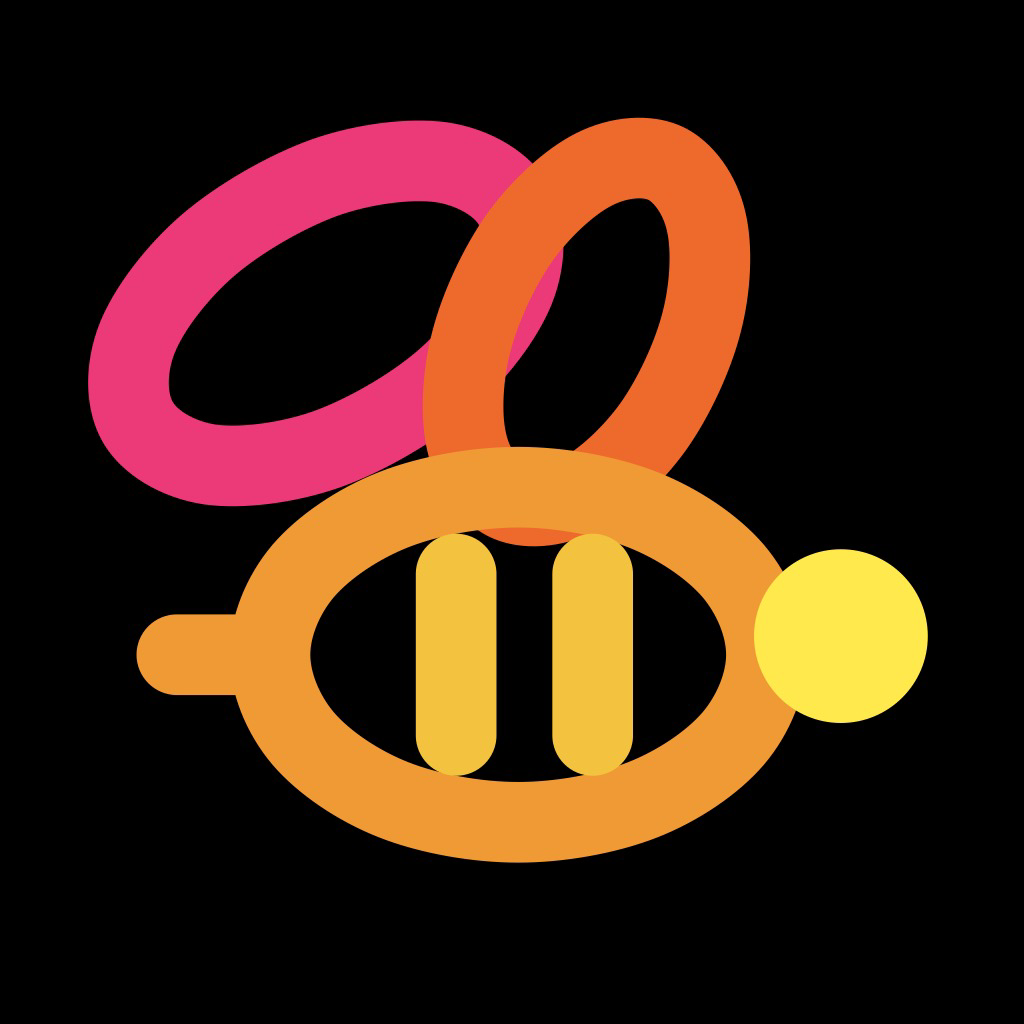
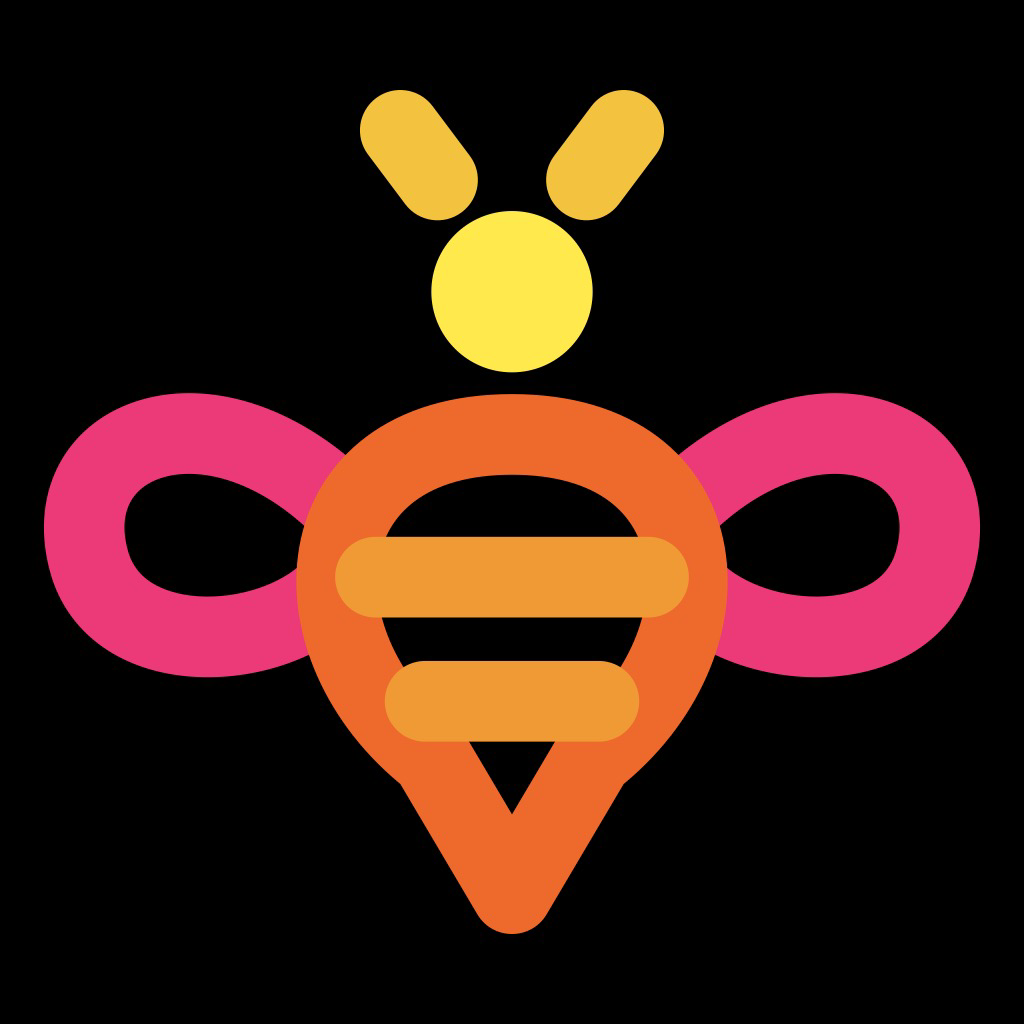
Redraw bee signet as frontal, symmetric bee after reference
Wings, abdomen with sting, two stripes and antennae as the four strokes,
head as the dot; antennae separated from the head, small gap between
head and body.

diff --git a/tools/signet.py b/tools/signet.py
@@ -33,17 +33,18 @@ def ellipse(cx, cy, rx, ry, rot_deg, n=10):
 
 
 def bee():
-    # Biene im Profil, Blick nach rechts:
-    # 1 Pink   – hinterer, großer Flügel (nach hinten oben geneigt)
-    # 2 Orange – vorderer, kleinerer Flügel (steiler)
-    # 3 Bernstein – Körper (liegende Ellipse) mit Stachel als Teilstrich
-    # 4 Gold   – zwei Streifen auf dem Körper (ein Pfad, zwei Teilstriche)
-    # Punkt    – Kopf vorne rechts: Fokus des Signets
-    back_wing = ellipse(200, 116, 70, 40, 30)
-    front_wing = ellipse(284, 122, 60, 34, 65)
-    body = ellipse(262, 226, 80, 54, 0, n=12) + 'M176 226L152 226'   # body + sting (same stroke)
-    stripes = 'M242 200L242 252M286 200L286 252'
-    return [back_wing, front_wing, body, stripes], (366, 220, 28)   # head sits on the body's front
+    # Biene frontal und symmetrisch (Achse x = 270, rechts der Mitte nach ODSV-Regel):
+    # 1 Pink      – beide Flügel (hinten, groß): Schlaufen seitlich am Körper, ohne Kreuzung
+    # 2 Orange    – Hinterleib: rund oben, läuft unten in eine Spitze (Stachel) aus
+    # 3 Bernstein – zwei Streifen quer über den Hinterleib
+    # 4 Gold      – zwei Fühler (vorne, klein)
+    # Punkt       – Kopf: Fokus des Signets
+    wings = ('M212 184C170 146 122 166 134 206C144 238 196 234 214 212'
+             'M328 184C370 146 418 166 406 206C396 238 344 234 326 212')
+    body = 'M270 164C338 164 342 232 296 268L270 312L244 268C198 232 202 164 270 164Z'
+    stripes = 'M226 210L314 210M242 250L298 250'
+    antennae = 'M246 82L234 66M294 82L306 66'
+    return [wings, body, stripes, antennae], (270, 118, 26)
 
 
 def svg(paths, dot, background=None, view='0 0 400 400', size=400):
@@ -99,5 +100,5 @@ if __name__ == '__main__':
     out.mkdir(parents=True, exist_ok=True)
     (out / 'the-swarm-signet.svg').write_text(svg(paths, dot))
     # Square icon: motif centred (view shifted right), black ground.
-    (out / 'the-swarm-signet-dark.svg').write_text(svg(paths, dot, background='#000000', view='95 15 330 330', size=1024))
+    (out / 'the-swarm-signet-dark.svg').write_text(svg(paths, dot, background='#000000', view='105 24 330 330', size=1024))
     sys.exit(1 if errs else 0)

diff --git a/README.md b/README.md
@@ -1,6 +1,6 @@
 # The Swarm
 
-<p align="center"><img src="assets/the-swarm-signet-dark.svg" width="180" alt="Signet von The Swarm: eine Biene aus vier Linien in Pink, Orange, Bernstein und Gold mit gelbem Kopf"></p>
+<p align="center"><img src="assets/the-swarm-signet-dark.svg" width="180" alt="Signet von The Swarm: Biene von vorn mit Fühlern, gelbem Kopf, zwei Flügeln und gestreiftem Hinterleib"></p>
 
 Gemeinsames, wachsendes Arbeitswissen für KI-Agents, die Software-Aufgaben **koordiniert in Phasen** umsetzen: planen, an Subagents mit passenden Modellen verteilen, selbst testen, selbst verbessern und aus jedem Schritt lernen.
 

diff --git a/CHANGELOG.md b/CHANGELOG.md
@@ -2,7 +2,7 @@
 
 ## 1.2.2 · 2026-11-21
 
-- Neu: Signet von The Swarm, eine Biene im ODSV-Stil. Vier Striche: hinterer Flügel, vorderer Flügel, Körper mit Stachel, Streifen; der gelbe Punkt ist der Kopf.
+- Neu: Signet von The Swarm, eine Biene im ODSV-Stil, frontal und symmetrisch. Vier Striche: Flügel, Hinterleib mit Spitze, Streifen, Fühler; der gelbe Punkt ist der Kopf.
   - Erzeugt nach der ODSV-Signet-Grammatik mit `tools/signet.py`, inklusive Prüfung der Grammatik.
   - Dateien in `assets/`: transparent, quadratisch auf Schwarz, PNG 1024 px.
 - Signet in der README eingebunden.
